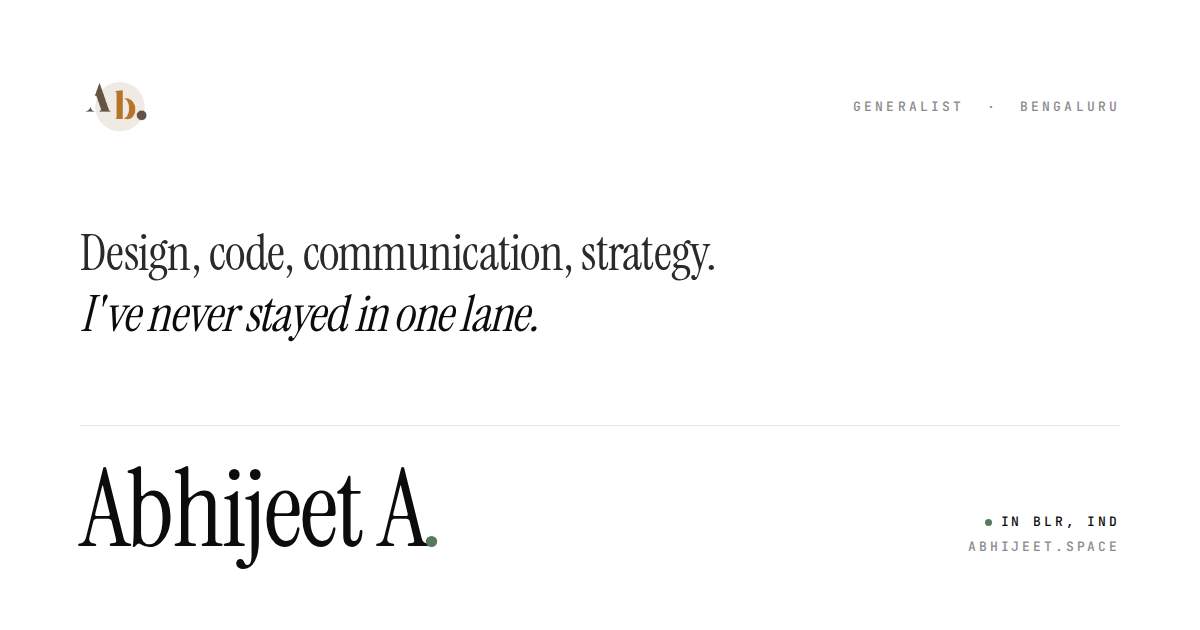
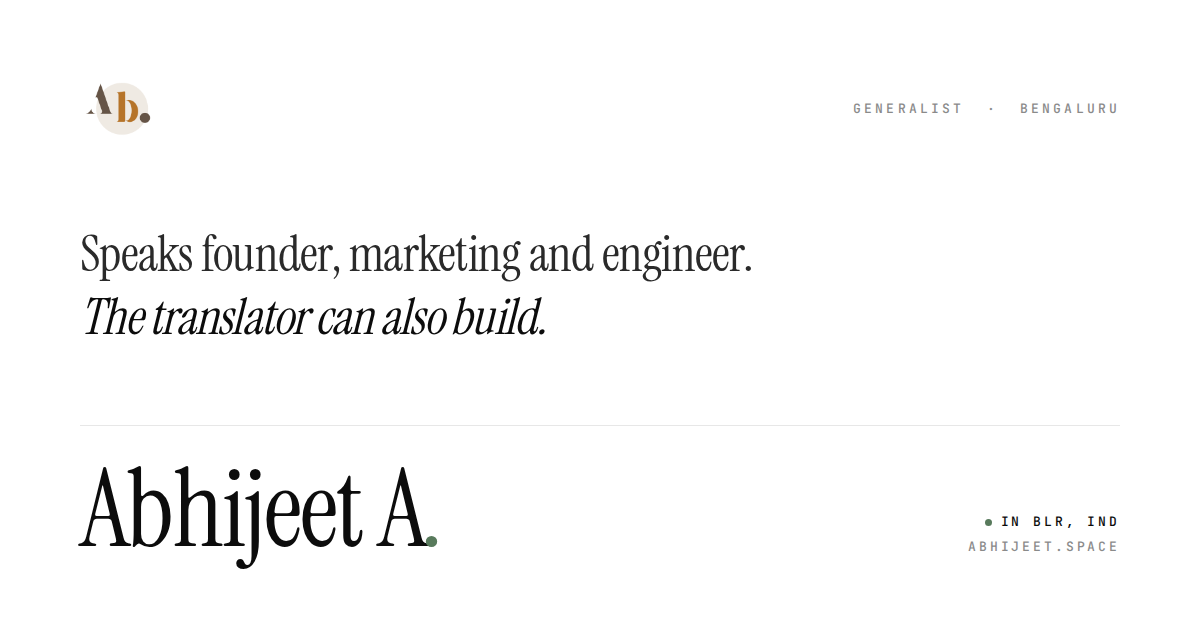
Rewrite social card copy in the site's own voice
The preview card led with a list of nouns ("design, code,
communication, strategy") that read like a resume rather than like the
page it opens. Replaced it with the framing from the FDE entry on the
Work timeline: "Speaks founder, marketing and engineer. The translator
can also build." Eyebrow, layout and type are unchanged.

og:description and twitter:description now match the card, so the text
under the image says the same thing as the image. The meta description
stays as-is, since it serves search results rather than share previews
and carries the more literal phrasing.

Claude-Session: https://claude.ai/code/session_01W8ECsn3LeUB8cAXYe9dzkG

diff --git a/index.html b/index.html
@@ -12,20 +12,20 @@
   <meta property="og:site_name" content="Abhijeet A." />
   <meta property="og:url" content="https://abhijeet.space/" />
   <meta property="og:title" content="Abhijeet A. — generalist in Bengaluru" />
-  <meta property="og:description" content="Design, code, communication, strategy. I've never stayed in one lane — turns out that was the right call." />
+  <meta property="og:description" content="Speaks founder, marketing and engineer. The translator can also build — design, code and strategy, from Bengaluru." />
   <meta property="og:image" content="https://abhijeet.space/assets/og.png" />
   <meta property="og:image:width" content="1200" />
   <meta property="og:image:height" content="630" />
   <meta property="og:image:type" content="image/png" />
-  <meta property="og:image:alt" content="Abhijeet A. — design, code, communication, strategy." />
+  <meta property="og:image:alt" content="Abhijeet A. — speaks founder, marketing and engineer; the translator can also build." />
   <meta property="og:locale" content="en_US" />
   <meta name="twitter:card" content="summary_large_image" />
   <meta name="twitter:site" content="@abhjtanand" />
   <meta name="twitter:creator" content="@abhjtanand" />
   <meta name="twitter:title" content="Abhijeet A. — generalist in Bengaluru" />
-  <meta name="twitter:description" content="Design, code, communication, strategy. I've never stayed in one lane — turns out that was the right call." />
+  <meta name="twitter:description" content="Speaks founder, marketing and engineer. The translator can also build — design, code and strategy, from Bengaluru." />
   <meta name="twitter:image" content="https://abhijeet.space/assets/og.png" />
-  <meta name="twitter:image:alt" content="Abhijeet A. — design, code, communication, strategy." />
+  <meta name="twitter:image:alt" content="Abhijeet A. — speaks founder, marketing and engineer; the translator can also build." />
 
   <!-- ── Icons & chrome ──────────────────────────────────────── -->
   <link rel="icon" type="image/png" href="./assets/favicon.png" />
